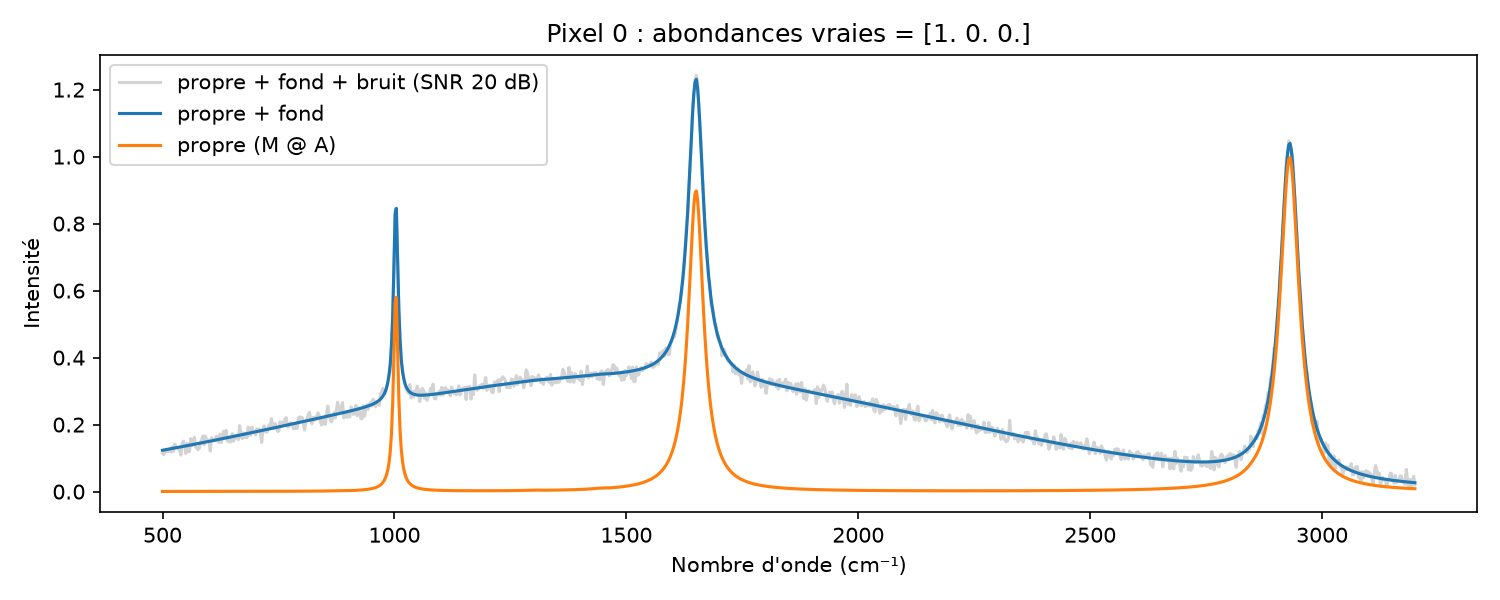
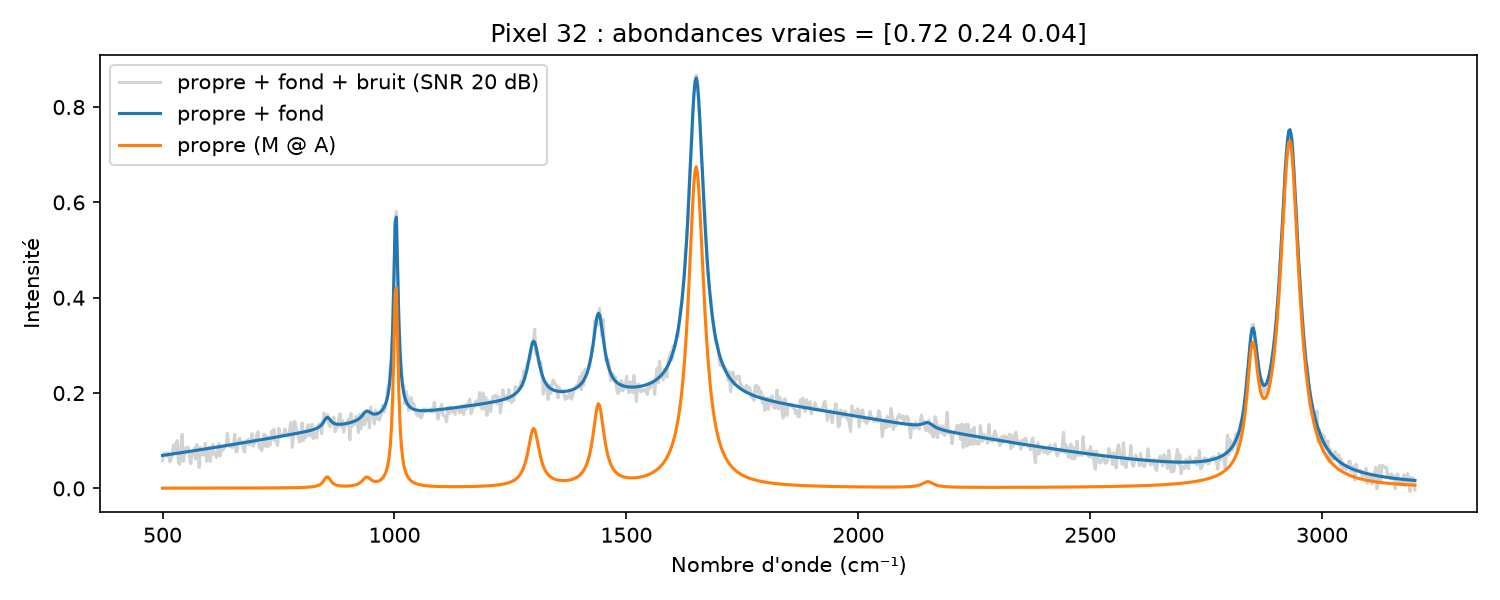
Références : moindres carrés et NNLS

diff --git a/experiments/e0_references.py b/experiments/e0_references.py
@@ -1,0 +1,21 @@
+import time
+
+import numpy as np
+
+from src.metrics import rmse
+from src.solvers import moindres_carres, nnls_pixels
+
+d = np.load("data/synthetique_snr30.npz")
+Y, M, A_vrai = d["Y"], d["M"], d["A"]
+print(f"Données : Y {Y.shape}, M {M.shape}, A {A_vrai.shape}, SNR {d['snr_db']} dB\n")
+
+for nom, solveur in [("Moindres carrés", moindres_carres), ("NNLS", nnls_pixels)]:
+    debut = time.perf_counter()
+    A_est = solveur(M, Y)
+    duree = time.perf_counter() - debut
+
+    print(nom)
+    print(f"  RMSE           : {rmse(A_est, A_vrai):.4f}")
+    print(f"  Temps          : {duree:.3f} s")
+    print(f"  % négatives    : {100 * np.mean(A_est < 0):.1f} %")
+    print(f"  Somme moyenne  : {A_est.sum(axis=0).mean():.3f}\n")

diff --git a/tests/test_solvers.py b/tests/test_solvers.py
@@ -1,0 +1,28 @@
+import numpy as np
+
+from src.solvers import moindres_carres, nnls_pixels
+from src.synthetic import abondances, axe_spectral, spectres_purs
+
+
+def _sans_bruit():
+    axe = axe_spectral()
+    M = spectres_purs(axe)
+    A, _ = abondances(taille=8, graine=0)
+    return M, A, M @ A
+
+
+def test_moindres_carres_sans_bruit():
+    M, A, Y = _sans_bruit()
+    assert np.allclose(moindres_carres(M, Y), A, atol=1e-8)
+
+
+def test_nnls_sans_bruit():
+    M, A, Y = _sans_bruit()
+    assert np.allclose(nnls_pixels(M, Y), A, atol=1e-6)
+
+
+def test_nnls_positif():
+    M, A, Y = _sans_bruit()
+    rng = np.random.default_rng(0)
+    Y_bruite = Y + rng.normal(0, 0.1, size=Y.shape)
+    assert np.all(nnls_pixels(M, Y_bruite) >= 0)

diff --git a/src/solvers.py b/src/solvers.py
@@ -1,0 +1,18 @@
+import numpy as np
+from scipy.optimize import nnls
+
+
+def moindres_carres(M, Y):
+    """Moindres carrés sans contrainte : résout min ||Y - MA||² pour tous les pixels."""
+    A, *_ = np.linalg.lstsq(M, Y, rcond=None)
+    return A
+
+
+def nnls_pixels(M, Y):
+    """Moindres carrés avec A >= 0, résolus pixel par pixel avec scipy."""
+    n_composants = M.shape[1]
+    n_pixels = Y.shape[1]
+    A = np.zeros((n_composants, n_pixels))
+    for p in range(n_pixels):
+        A[:, p], _ = nnls(M, Y[:, p])
+    return A

diff --git a/notebooks/fig_melange.py b/notebooks/fig_melange.py
@@ -7,7 +7,7 @@ M = spectres_purs(axe)
 A, malade = abondances(taille=64, graine=0)
 Y, Y_propre, fond = melange(axe, M, A, snr_db=20, amplitude_fond=0.3, graine=0)
 
-p = 0  # indice d'un pixel (le premier, dans la région saine)
+p = 32  # indice d'un pixel (le premier, dans la région saine)
 
 plt.figure(figsize=(10, 4))
 plt.plot(axe, Y[:, p], color="lightgrey", label="propre + fond + bruit (SNR 20 dB)")

diff --git a/src/metrics.py b/src/metrics.py
@@ -1,0 +1,6 @@
+import numpy as np
+
+
+def rmse(A_estime, A_vrai):
+    """Erreur quadratique moyenne entre abondances estimées et vraies."""
+    return np.sqrt(np.mean((A_estime - A_vrai) ** 2))
